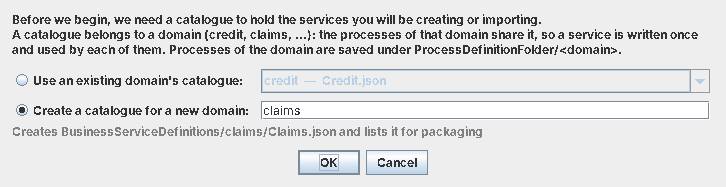
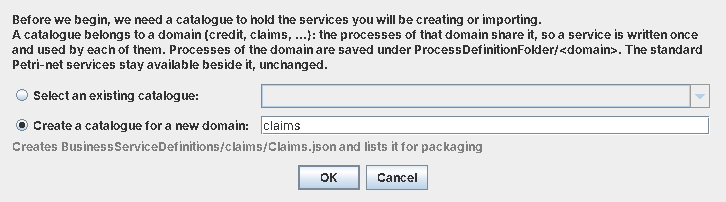
Catalogue prompt: no other domain's catalogue preselected for a new process
- Two choices: Select an existing catalogue (empty; its list opens when chosen), Create a catalogue for a new domain
- A new process starts on Create; a process saved under a domain folder still preselects that domain
- The prompt says the standard Petri-net services stay available, unchanged
- Reference.md text and picture updated

Claude-Session: https://claude.ai/code/session_0151nDw2DdARiuD7yvK629N9

Changed region(s): [[0.0, 0.0535, 1.0, 0.7754], [0.0, 0.4011, 0.3333, 0.508], [0.3939, 0.8021, 0.6061, 0.9626]]

diff --git a/btsn.workflowEditor/src/com/editor/CatalogueChoice.java b/btsn.workflowEditor/src/com/editor/CatalogueChoice.java
@@ -12,7 +12,8 @@ import javax.swing.*;
 public final class CatalogueChoice {
     public static final String BEFORE_WE_BEGIN = "Before we begin, we need a catalogue to hold the services you will be creating or importing.";
     public static final String EXPLAIN = "A catalogue belongs to a domain (credit, claims, ...): the processes of that domain share it, "
-        + "so a service is written once and used by each of them. Processes of the domain are saved under ProcessDefinitionFolder/<domain>.";
+        + "so a service is written once and used by each of them. Processes of the domain are saved under ProcessDefinitionFolder/<domain>. "
+        + "The standard Petri-net services stay available beside it, unchanged.";
 
     private CatalogueChoice() {}
 
@@ -43,8 +44,9 @@ public final class CatalogueChoice {
     public static File ask(Component parent, File common, File process, String why, boolean deployed) {
         List<File> catalogues = ServiceRegistry.domainCatalogues(common);
         String domain = processDomain(common, process);
-        JRadioButton useExisting = new JRadioButton("Use an existing domain's catalogue:");
+        JRadioButton useExisting = new JRadioButton("Select an existing catalogue:");
         JComboBox<File> existing = new JComboBox<>(catalogues.toArray(new File[0]));
+        existing.setSelectedIndex(-1);   // nothing chosen until the list is opened
         existing.setRenderer(new DefaultListCellRenderer() {
             @Override public Component getListCellRendererComponent(JList<?> list, Object value, int index, boolean selected, boolean focus) {
                 File file = (File)value;
@@ -59,11 +61,15 @@ public final class CatalogueChoice {
         for (File c : catalogues) if (c.getParentFile().getName().equals(domain)) own = c;
         if (own != null) { useExisting.setSelected(true); existing.setSelectedItem(own); }
         else if (!domain.isEmpty() && !"petrinet".equals(domain)) { createNew.setSelected(true); newDomain.setText(domain); }
-        else if (catalogues.isEmpty()) createNew.setSelected(true);
-        else useExisting.setSelected(true);
+        else createNew.setSelected(true);   // a new process: no other domain's catalogue is offered as if it were its own
         useExisting.setEnabled(!catalogues.isEmpty());
         Runnable enable = () -> { existing.setEnabled(useExisting.isSelected()); newDomain.setEnabled(createNew.isSelected()); };
-        useExisting.addActionListener(e -> enable.run()); createNew.addActionListener(e -> enable.run()); enable.run();
+        useExisting.addActionListener(e -> {
+            enable.run();
+            if (existing.getSelectedIndex() < 0) SwingUtilities.invokeLater(() -> { if (existing.isShowing()) existing.showPopup(); });
+        });
+        createNew.addActionListener(e -> { enable.run(); newDomain.requestFocusInWindow(); });
+        enable.run();
         JLabel creates = new JLabel(" ");
         creates.setForeground(Color.GRAY);
         Runnable preview = () -> {

diff --git a/Reference.md b/Reference.md
@@ -113,7 +113,7 @@ Right-click **Triage** and choose **Add Service to Catalogue...** (or click
 A catalogue belongs to a **domain**: every process of the domain shares it, so a service
 is written once and used by each of them.
 
-![The catalogue prompt: Before we begin, we need a catalogue to hold the services you will be creating or importing. The second choice, Create a catalogue for a new domain, is selected, with claims typed; below it, Creates BusinessServiceDefinitions/claims/Claims.json and lists it for packaging.](images/claims-catalogue.png)
+![The catalogue prompt: Before we begin, we need a catalogue to hold the services you will be creating or importing. Of the two choices, Select an existing catalogue and Create a catalogue for a new domain, the second is selected, with claims typed; below it, Creates BusinessServiceDefinitions/claims/Claims.json and lists it for packaging.](images/claims-catalogue.png)
 
 Choose **Create a catalogue for a new domain**, type `claims` and click **OK**. The editor:
 
@@ -121,7 +121,9 @@ Choose **Create a catalogue for a new domain**, type `claims` and click **OK**. 
 - lists it in [`btsn.services/packaging.json`](btsn.services/packaging.json), so the build
   packages the Java services you add to it.
 
-A process of an existing domain (credit, healthcare, ...) chooses that domain's catalogue instead.
+A process of an existing domain (credit, healthcare, ...) uses **Select an existing catalogue** instead.
+Either way, the standard Petri-net services (`StochasticService`, `AlwaysTrueService`) stay
+available beside the catalogue, unchanged.
 
 **Describe the service.** The form opens with what it can suggest:
 
